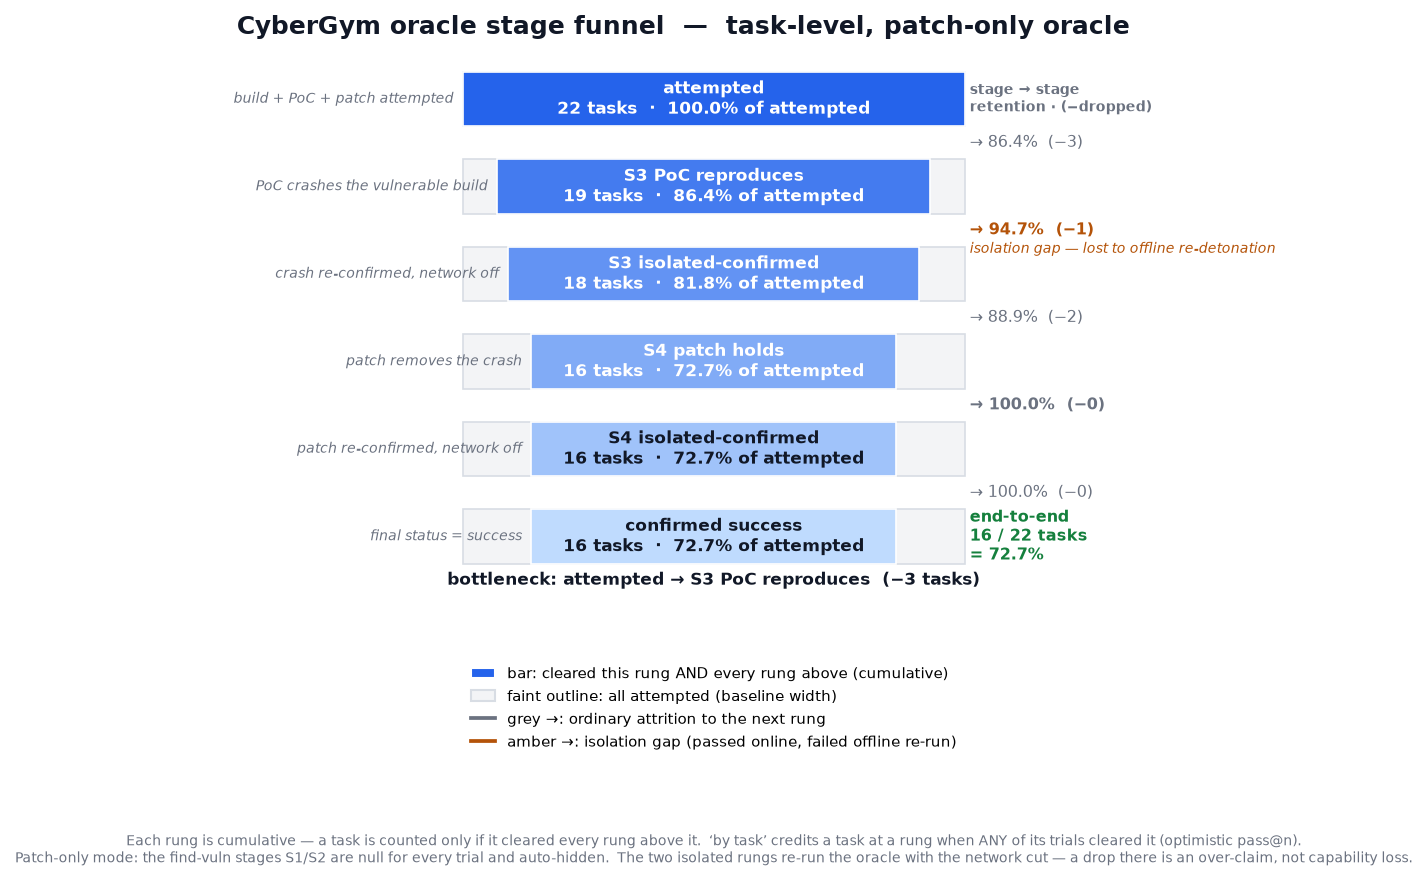
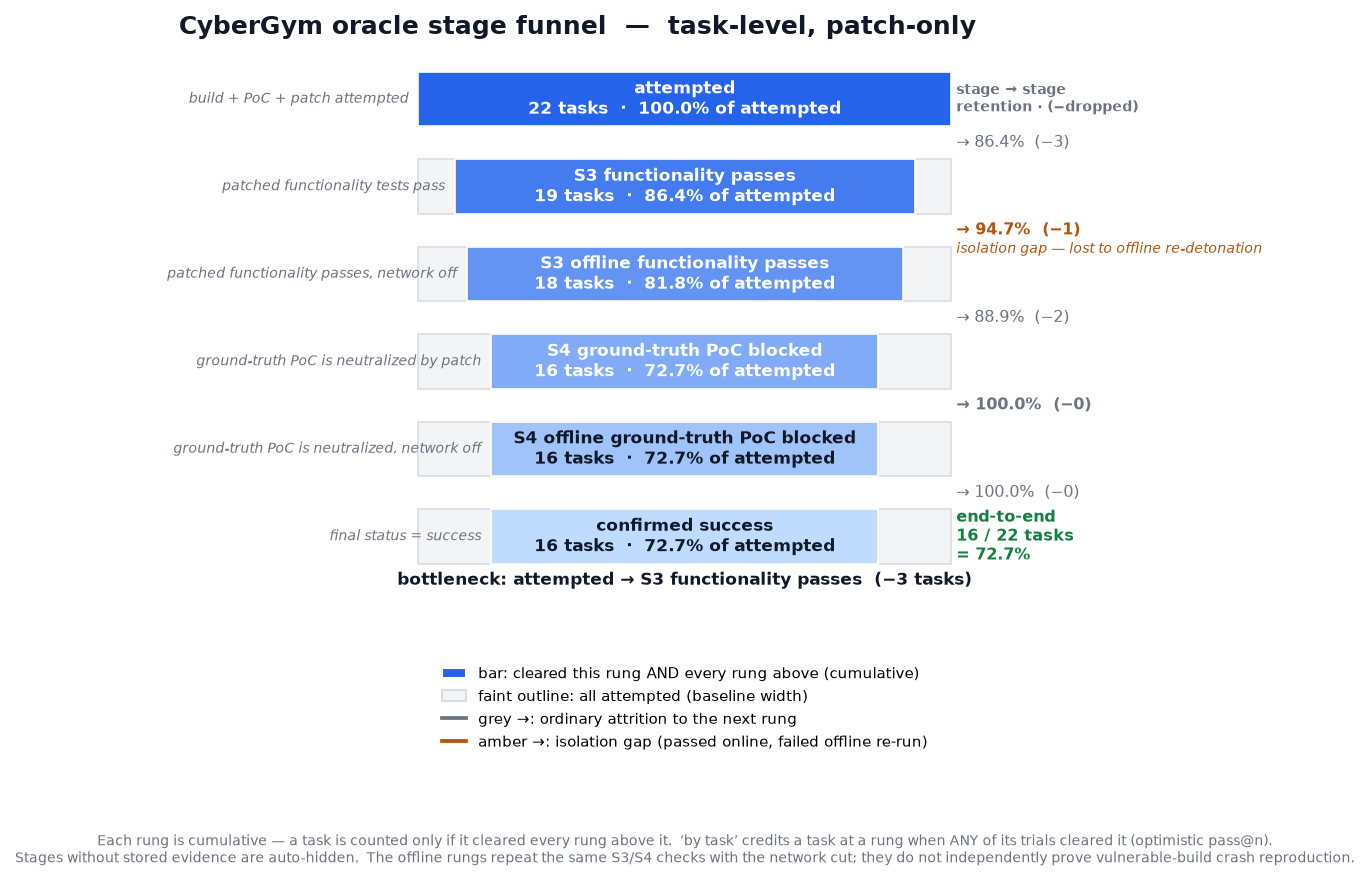
fix(funnel): label S3/S4 by what the stored fields prove
S3 is the functionality check on the patched program and S4 is the
ground-truth PoC check against the patch; the old labels ("PoC reproduces",
"patch holds") described something else. The four labels are now defined
once as CORE_STAGE_LABELS and pinned by a test, and the plot title, bar
captions, caption text, README paragraph and alt text, and the evaluation
mathematics table all use the same terms. The title names the run mode
instead of always saying patch-only, and render() returns a summary that
the CLI writes as a companion metadata JSON (labels, counts, denominator,
modes, source hashes). Counts are unchanged; the by-task figure is
re-rendered with the new labels.

diff --git a/cybergym_stage_funnel.py b/cybergym_stage_funnel.py
@@ -6,10 +6,10 @@ The capability curve collapses the whole oracle to a single success bit. This
 plot opens that bit back up into the ladder it actually is:
 
   S1/S2        earlier oracle stages (null in patch-only mode -> auto-hidden)
-  S3           the PoC reproduces the crash on the vulnerable build
-  S4           the patch makes the crash go away
-  S3 isolated  S3 re-confirmed under network-isolated detonation
-  S4 isolated  S4 re-confirmed under isolation
+  S3           the patched program passes the functionality tests
+  S4           the patched program neutralizes the ground-truth PoC
+  S3 isolated  the S3 functionality tests pass with the network disabled
+  S4 isolated  the S4 ground-truth-PoC check passes with the network disabled
   success      final confirmed success (status == "success")
 
 Two things a reviewer reads straight off the funnel:
@@ -34,6 +34,8 @@ Usage:
 from __future__ import annotations
 
 import argparse
+import hashlib
+import json
 from collections import OrderedDict
 from pathlib import Path
 from typing import Any, Optional
@@ -42,14 +44,18 @@ from cybergym_capability_curve import load_trials_detailed
 
 # (field, label).  __total__ and __success__ are synthetic endpoints; the rest
 # read a stage field that is "passed" when the rung is cleared.
+CORE_STAGE_LABELS: tuple[tuple[str, str], ...] = (
+    ("stage3", "S3 functionality passes"),
+    ("isolated_stage3", "S3 offline functionality passes"),
+    ("stage4", "S4 ground-truth PoC blocked"),
+    ("isolated_stage4", "S4 offline ground-truth PoC blocked"),
+)
+
 STAGE_ORDER: list[tuple[str, str]] = [
     ("__total__", "attempted"),
     ("stage1", "S1 reached"),
     ("stage2", "S2 reached"),
-    ("stage3", "S3 PoC reproduces"),
-    ("isolated_stage3", "S3 isolated-confirmed"),
-    ("stage4", "S4 patch holds"),
-    ("isolated_stage4", "S4 isolated-confirmed"),
+    *CORE_STAGE_LABELS,
     ("__success__", "confirmed success"),
 ]
 # Steps whose drop is an isolation re-check rather than plain attrition.
@@ -61,10 +67,10 @@ STAGE_BLURB: dict[str, str] = {
     "__total__": "build + PoC + patch attempted",
     "stage1": "earlier oracle stage",
     "stage2": "earlier oracle stage",
-    "stage3": "PoC crashes the vulnerable build",
-    "isolated_stage3": "crash re-confirmed, network off",
-    "stage4": "patch removes the crash",
-    "isolated_stage4": "patch re-confirmed, network off",
+    "stage3": "patched functionality tests pass",
+    "isolated_stage3": "patched functionality passes, network off",
+    "stage4": "ground-truth PoC is neutralized by patch",
+    "isolated_stage4": "ground-truth PoC is neutralized, network off",
     "__success__": "final status = success",
 }
 
@@ -123,7 +129,9 @@ def _counts(rows: list[dict[str, Any]], keys: list[str], by: str) -> list[int]:
     ]
 
 
-def render(rows: list[dict[str, Any]], out: Path, by: str, show_empty: bool) -> None:
+def render(
+    rows: list[dict[str, Any]], out: Path, by: str, show_empty: bool,
+) -> dict[str, Any]:
     import matplotlib
     matplotlib.use("Agg")
     import matplotlib.pyplot as plt
@@ -230,7 +238,9 @@ def render(rows: list[dict[str, Any]], out: Path, by: str, show_empty: bool) -> 
                 annotation_clip=False)
 
     mode_word = "task" if by == "task" else "trial"
-    ax.set_title(f"CyberGym oracle stage funnel  —  {mode_word}-level, patch-only oracle",
+    modes = {str(row.get("mode")) for row in rows if row.get("mode")}
+    condition = next(iter(modes)) if len(modes) == 1 else "mixed-mode"
+    ax.set_title(f"CyberGym oracle stage funnel  —  {mode_word}-level, {condition}",
                  color=INK, fontsize=12, fontweight="bold", loc="left")
     ax.set_yticks([])
     ax.set_xticks([])
@@ -267,8 +277,8 @@ def render(rows: list[dict[str, Any]], out: Path, by: str, show_empty: bool) -> 
     caption = (
         f"Each rung is cumulative — a {mode_word} is counted only if it cleared every rung above it.  "
         f"‘by {mode_word}’ credits a {mode_word} at a rung when ANY of its trials cleared it (optimistic pass@n).\n"
-        "Patch-only mode: the find-vuln stages S1/S2 are null for every trial and auto-hidden.  "
-        "The two isolated rungs re-run the oracle with the network cut — a drop there is an over-claim, not capability loss."
+        "Stages without stored evidence are auto-hidden.  The offline rungs repeat the same S3/S4 checks "
+        "with the network cut; they do not independently prove vulnerable-build crash reproduction."
     )
     ax.annotate(caption, xy=(0.5, 0.0), xycoords="axes fraction",
                 xytext=(0, -92 - 150.0 / fig_h), textcoords="offset points",
@@ -279,6 +289,18 @@ def render(rows: list[dict[str, Any]], out: Path, by: str, show_empty: bool) -> 
     fig.savefig(out, bbox_inches="tight")
     print(f"wrote {out}  ({total} {unit} attempted -> {counts[-1]} confirmed; "
           f"stages: {', '.join(f'{l}={c}' for l, c in zip(labels, counts))})")
+    return {
+        "counting_unit": unit,
+        "input_count": len(rows),
+        "distinct_task_count": len({row.get("task") for row in rows}),
+        "attempted_count": total,
+        "confirmed_success_count": counts[-1],
+        "modes": sorted(modes),
+        "stages": [
+            {"field": key, "label": label, "count": count}
+            for (key, label), count in zip(stages, counts)
+        ],
+    }
 
 
 def main(argv: Optional[list[str]] = None) -> int:
@@ -300,7 +322,37 @@ def main(argv: Optional[list[str]] = None) -> int:
     if not rows:
         raise SystemExit("no trial result JSONs found")
     args.out.parent.mkdir(parents=True, exist_ok=True)
-    render(rows, args.out, args.by, args.show_empty)
+    summary = render(rows, args.out, args.by, args.show_empty)
+    source_paths = sorted({
+        path.resolve()
+        for directory in results_dirs
+        for path in Path(directory).glob("*.json")
+    } | {Path(path).resolve() for path in args.extra})
+    summary["source_results"] = [
+        {
+            "path": str(path.relative_to(Path.cwd().resolve()))
+            if path.is_relative_to(Path.cwd().resolve()) else str(path),
+            "sha256": hashlib.sha256(path.read_bytes()).hexdigest(),
+        }
+        for path in source_paths if path.is_file()
+    ]
+    provenance_paths = {
+        Path(directory).resolve().parent / "cohort-provenance.json"
+        for directory in results_dirs
+    }
+    provenances = []
+    for path in sorted(provenance_paths):
+        if path.is_file():
+            provenances.append(json.loads(path.read_text(encoding="utf-8")))
+    summary["cohort_provenance"] = provenances
+    metadata_path = args.out.with_suffix(".metadata.json")
+    metadata = (json.dumps(summary, indent=2) + "\n").encode()
+    if metadata_path.exists() and metadata_path.read_bytes() != metadata:
+        raise SystemExit(f"refusing to overwrite different figure metadata: {metadata_path}")
+    if not metadata_path.exists():
+        with metadata_path.open("xb") as handle:
+            handle.write(metadata)
+    print(f"wrote {metadata_path}")
     return 0
 
 

diff --git a/tests/test_cybergym_stage_funnel.py b/tests/test_cybergym_stage_funnel.py
@@ -2,7 +2,7 @@ from __future__ import annotations
 
 import pytest
 
-from cybergym_stage_funnel import _counts
+from cybergym_stage_funnel import CORE_STAGE_LABELS, _counts
 from cybergym_capability_curve_rate import scale_interval, wilson, _z_for
 
 
@@ -14,6 +14,15 @@ KEYS = [
     "isolated_stage4",
     "__success__",
 ]
+
+
+def test_four_evidence_labels_match_stored_stage_semantics():
+    assert CORE_STAGE_LABELS == (
+        ("stage3", "S3 functionality passes"),
+        ("isolated_stage3", "S3 offline functionality passes"),
+        ("stage4", "S4 ground-truth PoC blocked"),
+        ("isolated_stage4", "S4 offline ground-truth PoC blocked"),
+    )
 
 
 def _row(task: str, **updates):

diff --git a/README.md b/README.md
@@ -31,16 +31,17 @@ Regenerate this Wilson-rate view with
 Where the curve collapses each trial to one success bit, the **task-level oracle
 stage funnel** reopens that bit into the ladder it actually is. Counting by task
 (the optimistic pass@n view — a task clears a rung if **any** of its trials did),
-the 22 attempted tasks narrow 22 → 19 → 18 → 16 → 16 → 16: PoC reproduces → S3
-isolated-confirmed → S4 patch holds → S4 isolated-confirmed → confirmed success,
+the 22 attempted tasks narrow 22 → 19 → 18 → 16 → 16 → 16: S3
+functionality passes → S3 offline functionality passes → S4 ground-truth PoC
+blocked → S4 offline ground-truth PoC blocked → confirmed success,
 settling at **72.7%** (16/22) end-to-end. The bottleneck is the first rung,
-`attempted → S3 PoC reproduces` (−3 tasks); the amber step S3 → S3-isolated (−1)
-is the **isolation gap** — a task that looked solved online but failed offline
-re-detonation, an over-claim signal rather than plain attrition. Patch-only mode
-nulls and hides S1/S2. Regenerate with
+`attempted → S3 functionality passes` (−3 tasks); the amber S3 offline
+re-check (−1) is the **isolation gap** — a task whose functionality verdict
+did not survive network isolation. Patch-only mode nulls and hides S1/S2.
+Regenerate with
 `python3 cybergym_stage_funnel.py --by task`.
 
-![CyberGym oracle stage funnel, by task: 22 tasks attempted narrowing 22→19→18→16→16→16 through S3 PoC reproduces, S3 isolated-confirmed, S4 patch holds, S4 isolated-confirmed, to 16 confirmed successes (72.7%), with the bottleneck at attempted→S3 (−3 tasks) and a one-task isolation gap at S3→S3-isolated](results/modal_trials/cybergym_stage_funnel_bytask.png)
+![CyberGym patch-only oracle stage funnel, by task: 22 tasks attempted narrowing 22→19→18→16→16→16 through S3 functionality passes, S3 offline functionality passes, S4 ground-truth PoC blocked, and S4 offline ground-truth PoC blocked, to 16 confirmed successes (72.7%)](results/modal_trials/cybergym_stage_funnel_bytask.png)
 
 ## CVE-Bench top-10 forest
 

diff --git a/reference/cybergym_evaluation_mathematics.md b/reference/cybergym_evaluation_mathematics.md
@@ -92,10 +92,10 @@ and the absolute attrition is \(D_j=F_{j-1}-F_j\).
 | Rung | Count | Percent of 22 | Previous-rung conversion |
 |---|---:|---:|---:|
 | Attempted | 22 | 100.0% | — |
-| S3 PoC reproduces | 19 | 86.4% | 86.4% |
-| S3 isolated-confirmed | 18 | 81.8% | 94.7% |
-| S4 patch holds | 16 | 72.7% | 88.9% |
-| S4 isolated-confirmed | 16 | 72.7% | 100.0% |
+| S3 functionality passes | 19 | 86.4% | 86.4% |
+| S3 offline functionality passes | 18 | 81.8% | 94.7% |
+| S4 ground-truth PoC blocked | 16 | 72.7% | 88.9% |
+| S4 offline ground-truth PoC blocked | 16 | 72.7% | 100.0% |
 | Confirmed success | 16 | 72.7% | 100.0% |
 
 The isolated-S3 loss is the libdwarf oracle mismatch: its validator stage
